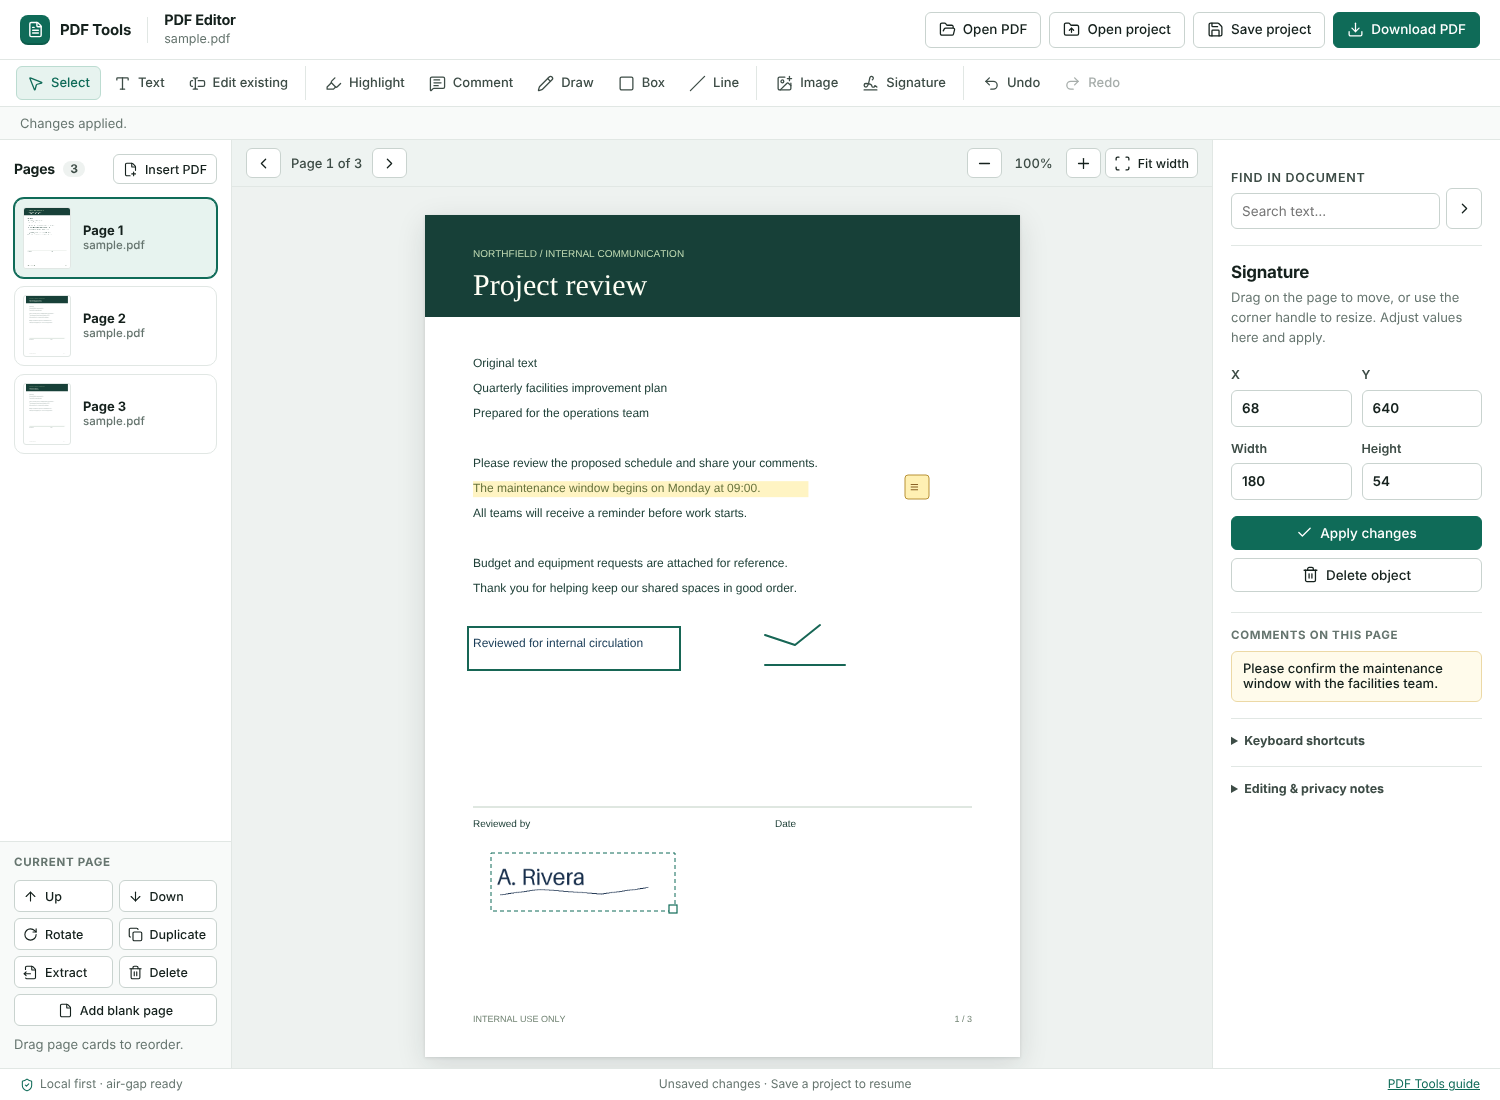
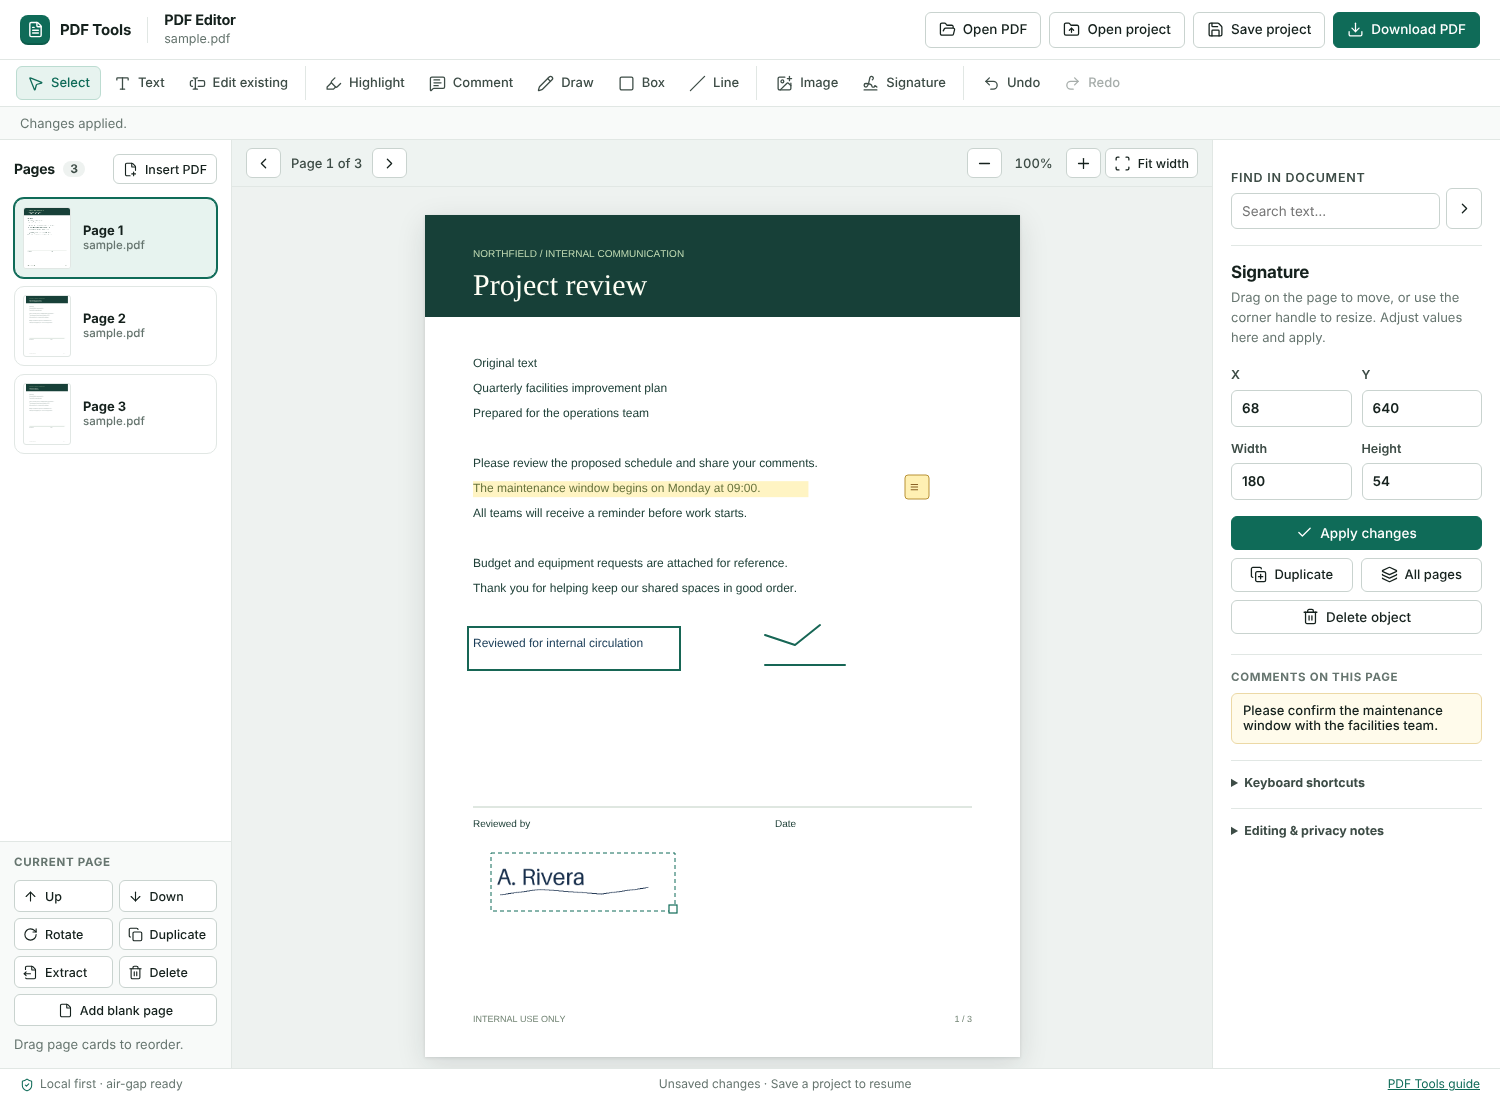
docs: document split, stamp and signature pad; refresh gallery
Add Split, Page numbers & watermark, signature pad and object-action
screenshots, describe the new tools in the README, editor guide, help
page and changelog, give Split a distinct icon, and record the round in
the progress ledger with remaining ideas.

Claude-Session: https://claude.ai/code/session_011oMNbJYYeZJnH4xLrE2VXF

Changed region(s): [[0.828, 0.5564, 0.9813, 0.7727], [0.828, 0.4945, 0.9507, 0.5255]]

diff --git a/src/pdf_tools_service/app/templates/pdf_help.html b/src/pdf_tools_service/app/templates/pdf_help.html
@@ -62,6 +62,9 @@
       <li>Locked and malformed files are rejected with safe messages.</li>
       <li>Raster export loses vector text and should be used only when needed.</li>
       <li>Processing is local and request-scoped; deployers must still configure proxy upload limits.</li>
+      <li>Split creates at most 200 files per request; each part keeps the original page content.</li>
+      <li>Page numbers and watermarks use standard PDF fonts (Western European characters) and become part of the page. A watermark is visual only and does not restrict copying.</li>
+      <li>PNG export from Extract is rendered in your browser at 150 dpi.</li>
     </ul>
   </article>
 </section>

diff --git a/src/pdf_tools_service/app/templates/pdf_index.html b/src/pdf_tools_service/app/templates/pdf_index.html
@@ -26,7 +26,7 @@
     <span class="launch">Open merge tool {{ icon('arrow-right') }}</span>
   </a>
   <a class="tool-card" href="{{ url_for('pdf_tools.split.form') }}">
-    <span class="tool-icon">{{ icon('file-stack') }}</span>
+    <span class="tool-icon">{{ icon('split') }}</span>
     <h2>Split PDF</h2>
     <p>Break a document into equal parts, single pages or your own groups, and download them as one ZIP.</p>
     <span class="launch">Open split tool {{ icon('arrow-right') }}</span>

diff --git a/src/pdf_tools_service/app/templates/pdf_base.html b/src/pdf_tools_service/app/templates/pdf_base.html
@@ -16,7 +16,7 @@
 {% set nav = [
     ('pdf_tools.editor.workspace', 'file-pen-line', 'PDF Editor'),
     ('pdf_tools.merge.form', 'files', 'Merge'),
-    ('pdf_tools.split.form', 'file-stack', 'Split'),
+    ('pdf_tools.split.form', 'split', 'Split'),
     ('pdf_tools.extract.form', 'scissors', 'Extract'),
     ('pdf_tools.stamp.form', 'stamp', 'Number &amp; stamp'),
     ('pdf_tools.help_page', 'circle-help', 'Help'),

diff --git a/docs/PDF_EDITOR.md b/docs/PDF_EDITOR.md
@@ -23,11 +23,18 @@ or browser CDN is required in production.
 4. **Draw**, **Box** and **Line** add colored markup. Their appearance is merged
    into PDF page content on export. Boxes/highlights do not remove content and
    must never be used as redaction.
-5. **Image** or **Signature** opens a PNG/JPEG. Click the page to place it. Move it,
+5. **Image** opens a PNG/JPEG. **Signature** opens a pad: draw with a mouse, pen
+   or finger (black or blue ink), or choose *Upload image instead*. A drawn
+   signature is trimmed and placed as a transparent PNG, and signatures used in
+   the session can be placed again from the pad. Click the page to place it. Move it,
    resize it with the handle (preserving aspect ratio), or set exact dimensions
    in Properties. Transparency is retained. A transparent PNG signature works
    best; a JPEG's existing background is preserved. The image becomes ordinary
    PDF content on export. There is no certificate or cryptographic signing.
+   With an object selected, **Duplicate** (Ctrl/⌘ D) makes a copy, **All pages**
+   repeats it at the same position on every other page in one undoable step
+   (useful for initials), Ctrl/⌘ C and V copy it onto another page, and the arrow
+   keys nudge it by 1 pt (Shift: 10 pt).
 6. **Edit existing** shows green targets for supported text. Select one, enter a
    replacement and Apply. The server replaces the actual PDF text object and
    renders the resulting PDF back into the preview. Unsupported objects are not
@@ -40,7 +47,8 @@ or browser CDN is required in production.
    `.pdfproject` containing source PDFs, images, notes, page order and text edits.
    **Open project** restores it, including in a fresh browser tab.
 9. **Keyboard shortcuts**: V Select, T Text, E Edit existing, H Highlight,
-   C Comment, D Draw, B Box, L Line, Del delete, Esc cancel, +/− zoom,
+   C Comment, D Draw, B Box, L Line, Del delete, Esc cancel, +/− or Ctrl+scroll zoom,
+   arrows nudge, Ctrl/⌘ D duplicate, Ctrl/⌘ C / V copy and paste,
    PgUp/PgDn change page, Ctrl/⌘ Z undo (Shift or Ctrl+Y to redo), Ctrl/⌘ S save
    project, Ctrl/⌘ O open. The list is also under *Keyboard shortcuts* in the
    editor's right panel.
@@ -143,6 +151,10 @@ npm ci --ignore-scripts
 # Start the service on 127.0.0.1:8001 separately, then:
 CHROMIUM_PATH=/usr/bin/chromium npm run test:browser
 ```
+
+`npm run test:browser` runs `tests/browser/editor.cjs` (the full editor flow) and
+`tests/browser/features.cjs` (merge, extract, split, stamp, the signature pad and
+object duplication/copy tools).
 
 `EDITOR_URL` changes the test URL; `SCREENSHOT_DIR` changes its output directory.
 The test creates fictional PDFs and signature artwork, blocks all non-origin

diff --git a/README.md b/README.md
@@ -1,16 +1,18 @@
 # PDF Tools Service
 
-PDF Tools Service provides simple browser-based utilities for working with PDFs. It offers merging and page extraction capabilities through a lightweight Flask application. The service can run standalone or be integrated with the [ml_server](https://github.com/kvmani/ml_server) project.
+PDF Tools Service provides simple browser-based utilities for working with PDFs. It offers editing, merging, splitting, page numbering/watermarking and page extraction through a lightweight Flask application. The service can run standalone or be integrated with the [ml_server](https://github.com/kvmani/ml_server) project.
 
 ## Features
 
 - **PDF Editor** at `/pdf_tools/editor`: text, highlights, comments, drawings,
-  images/signature images, page organization, undo/redo and editable project backups.
+  images, drawn or uploaded signature images, page organization, undo/redo and editable project backups.
   Existing-text edits are deliberately restricted to supported standard-font text.
   See the [editor guide](docs/PDF_EDITOR.md) and [UI screenshots](docs/screenshots/README.md).
 
 - **Merge** any number of PDFs with optional page ranges, custom output filenames and drag‑and‑drop reordering.
-- **Extract** selected pages from one PDF into a new document or export them as images. Optional previews help confirm page selection.
+- **Split** one PDF at `/pdf_tools/split` into equal parts, single pages or custom groups, returned as a ZIP.
+- **Extract** selected pages from one PDF into a new document or export them as PNG images. Page thumbnails let you pick pages visually.
+- **Page numbers & watermark** at `/pdf_tools/stamp`: number pages in six positions and four formats, and stamp a diagonal text watermark, with a live preview.
 - Minimal HTML interface served by Flask.
 - JSON responses so the tools can also be called programmatically.
 
@@ -38,7 +40,8 @@ Start the server using the provided script:
 ```
 
 The server listens on `http://HOST:PORT` (default `0.0.0.0:8000`). Navigate to
-`/pdf_tools/merge` or `/pdf_tools/extract` to use the tools. When integrated
+`/pdf_tools/` for the home page, or directly to `/pdf_tools/editor`, `/pdf_tools/merge`,
+`/pdf_tools/split`, `/pdf_tools/extract` or `/pdf_tools/stamp`. When integrated
 with `ml_server`, mount the blueprint under the same prefix.
 
 For production, install the repository and use the Waitress entry point rather

diff --git a/docs/EDITOR_PROGRESS.md b/docs/EDITOR_PROGRESS.md
@@ -43,6 +43,22 @@ force-push or overwrite concurrent work. Record blockers and partial work here.
    no external requests or JS errors; ad-hoc Playwright checks covered merge
    download (5 pages from 3 + `1-2`), extract PDF/ZIP/range errors, and no
    horizontal scrolling at 390px and 1024px.
+6. [complete] Feature round 2 (2026-11-04), pushed to main:
+   - `2d71099` Split tool (`services/split_service.py`, `/pdf_tools/split`, ZIP
+     output, 200-part limit) and Page numbers & watermark tool
+     (`services/stamp_service.py`, `/pdf_tools/stamp`). Stamp overlays are drawn in
+     visible (post-/Rotate) coordinates via `_display_transform`, honouring the crop
+     box; verified by rendering at 0/90/180/270°. Shared `js/tool_page.js` and
+     `_file_step.html`. Tests: `tests/test_split_stamp.py`.
+   - `7006efc` editor signature pad (`openSignaturePad`, trimmed transparent PNG,
+     session reuse), duplicate / All pages / copy-paste / arrow nudge /
+     Ctrl+scroll zoom. New `tests/browser/features.cjs`; `npm run test:browser`
+     runs both browser suites.
+   - Final commit: docs, help limits, gallery (15 screenshots), distinct Split icon.
+   Checks: 78 pytest cases; both browser suites pass with no external requests or
+   JS errors.
+   Ideas not yet done: optional dark theme; per-document rotation in Merge;
+   editing PDF metadata (title/author); reordering pages in Split by drag.
 
 ## Current architecture
 

diff --git a/docs/screenshots/README.md b/docs/screenshots/README.md
@@ -14,6 +14,14 @@ were captured from the same service with the same fixtures.
 
 ![Merge workspace with two documents, thumbnails and page ranges](07-merge.png)
 
+## Split PDF
+
+![Split workspace with custom groups and part previews](12-split.png)
+
+## Page numbers & watermark
+
+![Stamp workspace with settings and live preview](13-stamp.png)
+
 ## Extract pages
 
 ![Extract workspace with a visual page picker and output choice](08-extract.png)
@@ -33,6 +41,14 @@ were captured from the same service with the same fixtures.
 ## Editor: signature-image placement
 
 ![Signature image with placement and resizing controls](03-editor-signature.png)
+
+## Editor: signature pad
+
+![Drawing a signature in the editor's signature pad](14-editor-signature-pad.png)
+
+## Editor: object actions
+
+![Placed signature with Duplicate and All pages actions](15-editor-object-actions.png)
 
 ## Editor: limited existing-text editing
 

diff --git a/CHANGELOG.md b/CHANGELOG.md
@@ -2,6 +2,15 @@
 
 ## Unreleased — 2026-11-04
 
+- New **Split PDF** tool (`/pdf_tools/split`): equal parts, one file per page or
+  custom groups, previewed with thumbnails and downloaded as one ZIP.
+- New **Page numbers & watermark** tool (`/pdf_tools/stamp`): four number formats,
+  six positions, start number, size and page range, plus a diagonal watermark with
+  adjustable strength and a live preview. Correct on rotated and cropped pages.
+- Editor: draw-a-signature pad with session reuse; duplicate, copy to all pages,
+  copy/paste between pages, arrow-key nudging and Ctrl+scroll zoom.
+- `npm run test:browser` also runs `tests/browser/features.cjs`.
+
 - One shared design system (`theme.css`) across the home, merge, extract, help and
   editor pages, with a sticky navigation bar and bundled Lucide icons everywhere.
 - Merge: clickable multi-file drop zone, compact document rows with thumbnails,
